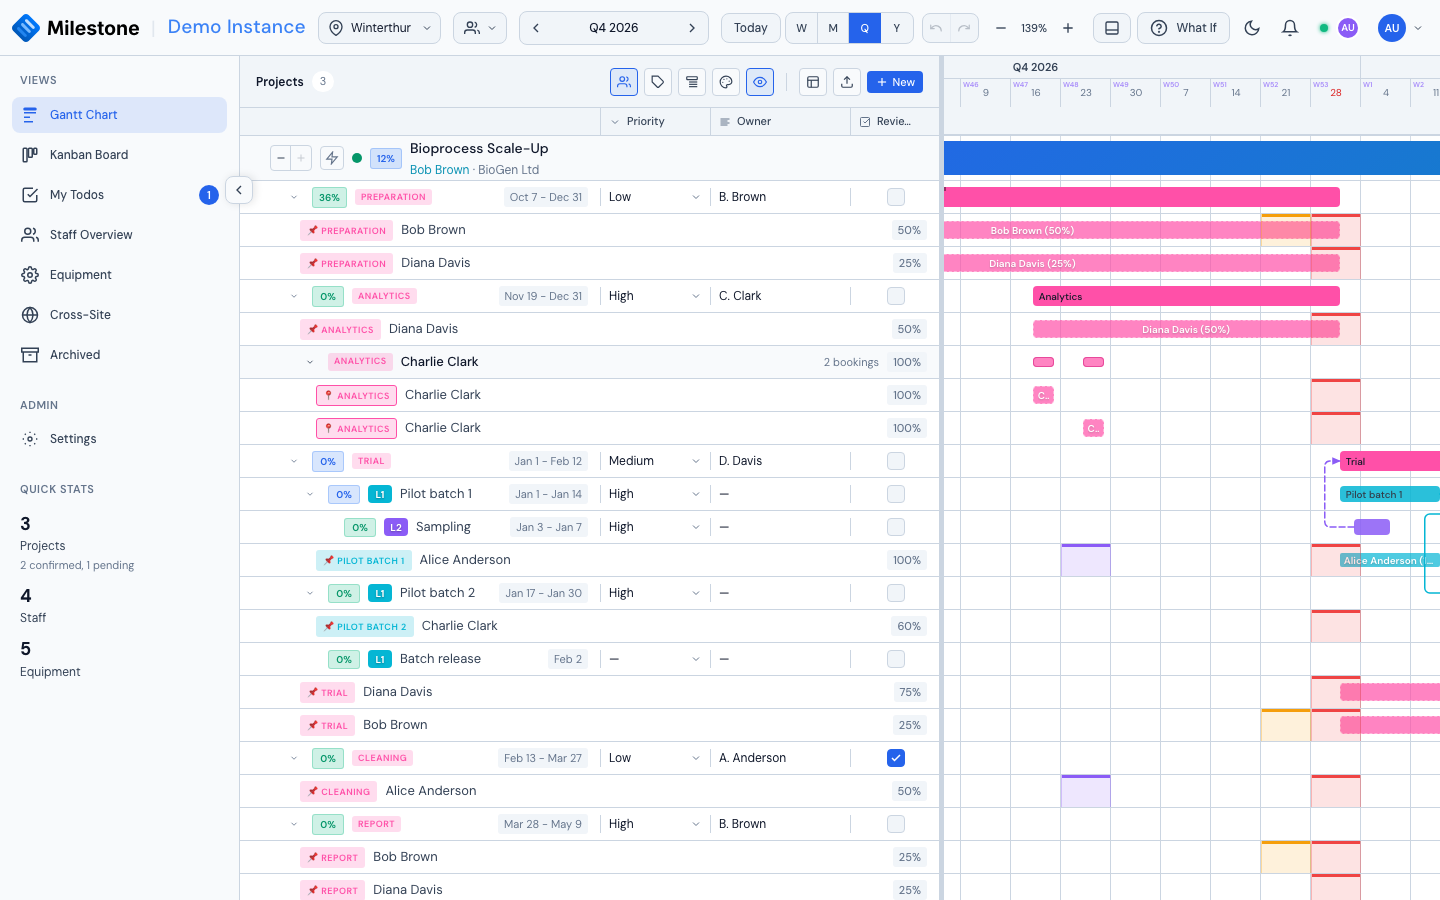
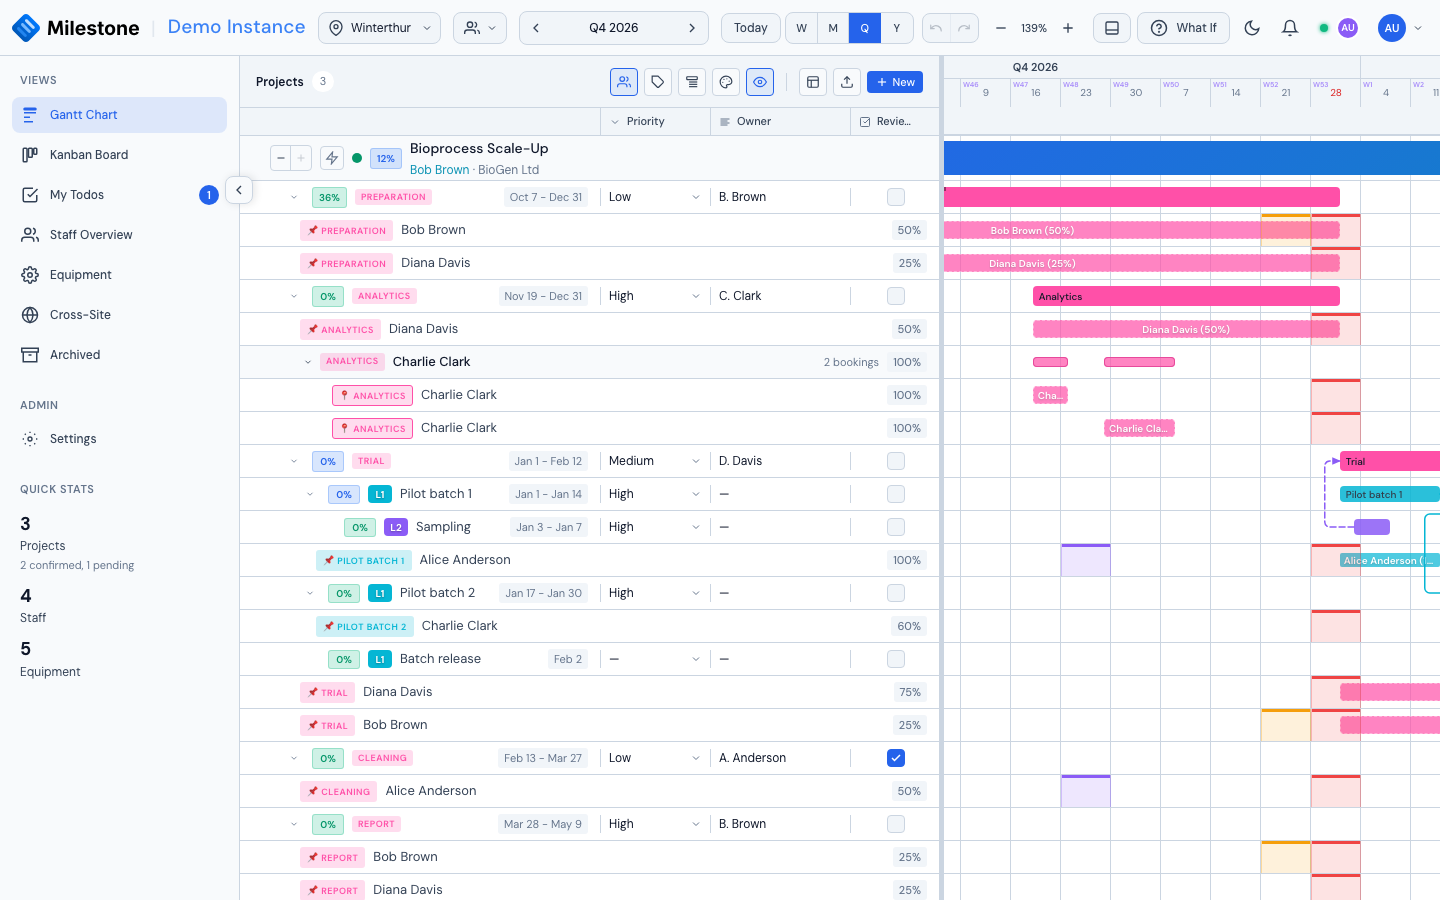
Indent grouped bookings under their overview row
A person's grouped booking rows now sit two levels deeper than the
overview row, and the row's chevron is a little narrower, so their
badges start to the right of the overview row's badge and read as its
children. The screenshot follows.

diff --git a/frontend/src/components/gantt/ProjectPanel/__tests__/PhaseRow.test.tsx b/frontend/src/components/gantt/ProjectPanel/__tests__/PhaseRow.test.tsx
@@ -163,7 +163,7 @@ describe('PhaseRow permissions', () => {
 
 /**
  * A person with two or more bookings on the phase gets a collapsible overview
- * row (StaffGroupRow), their bookings one level deeper; a person with one
+ * row (StaffGroupRow), their bookings two levels deeper; a person with one
  * booking keeps the plain row.
  */
 describe('PhaseRow per-person booking groups', () => {
@@ -180,7 +180,7 @@ describe('PhaseRow per-person booking groups', () => {
     useViewStore.setState({ expandedPhases: new Set([1]), showAssignments: true, collapsedStaffGroups: new Set() });
   });
 
-  it('groups a person with 2+ bookings, expanded, with their rows one level deeper', () => {
+  it('groups a person with 2+ bookings, expanded, with their rows two levels deeper', () => {
     const { container } = renderRow(groupedPhase());
     // the phase row + the staff block the timeline and the row geometry count
     expect(container.children).toHaveLength(1 + staffRowCount(bookings as never, 'phase', 1, new Set()));
@@ -199,9 +199,9 @@ describe('PhaseRow per-person booking groups', () => {
     expect(group.className).not.toMatch(/row/);
     expect([...group.attributes].some((a) => /^data-.*id$/.test(a.name))).toBe(false);
 
-    // Bob's two rows at depth 2 (60 px), then Cleo's single row at depth 1 (44 px)
+    // Bob's two rows at depth 3 (76 px), right of the group badge; Cleo's single row at depth 1 (44 px)
     const rows = bookingRows().map((badge) => badge.parentElement as HTMLElement);
-    expect(rows.map((r) => r.style.paddingLeft)).toEqual(['60px', '60px', '44px']);
+    expect(rows.map((r) => r.style.paddingLeft)).toEqual(['76px', '76px', '44px']);
     expect(screen.getAllByTitle('Bob Brown')).toHaveLength(3); // group name + 2 rows
     // Cleo has no group
     expect(screen.queryByRole('button', { name: /Cleo Chen's bookings/ })).not.toBeInTheDocument();

diff --git a/frontend/src/components/gantt/ProjectPanel/CardStaffRows.tsx b/frontend/src/components/gantt/ProjectPanel/CardStaffRows.tsx
@@ -2,9 +2,10 @@
  * CardStaffRows - the staff bookings of one phase / subphase in the project
  * tree (1.17.0). A person with one booking on the card gets their
  * AssignmentRow as before; a person with two or more gets a StaffGroupRow
- * followed, while the group is expanded, by one AssignmentRow per booking one
- * level deeper. The layout comes from `cardStaffItems`, the same helper the
- * timeline (ProjectTimeline) and `calculateRowPositions` use.
+ * followed, while the group is expanded, by one AssignmentRow per booking two
+ * levels deeper (their badges sit right of the group row's badge). The
+ * layout comes from `cardStaffItems`, the same helper the timeline
+ * (ProjectTimeline) and `calculateRowPositions` use.
  */
 
 import { Fragment, memo, useMemo } from 'react';
@@ -82,7 +83,10 @@ export const CardStaffRows = memo(function CardStaffRows({ level, card, projectI
               phaseType={card.name}
               phaseColor={card.color}
             />
-            {!item.collapsed && item.rows.map((row) => bookingRow(row, depth + 1))}
+            {/* Two levels deeper than the group's edge: the group row's chevron
+                comes before its badge, so one level would put these badges
+                left of the group badge and they would not read as its children. */}
+            {!item.collapsed && item.rows.map((row) => bookingRow(row, depth + 2))}
           </Fragment>
         );
       })}

diff --git a/frontend/src/components/gantt/ProjectPanel/StaffGroupRow.tsx b/frontend/src/components/gantt/ProjectPanel/StaffGroupRow.tsx
@@ -2,9 +2,9 @@
  * StaffGroupRow - the overview row of one person's bookings on one phase /
  * subphase (1.17.0), shown when the person has two or more rows there:
  * chevron, the card badge (as on the booking rows, without the pin), name,
- * "N bookings" and the allocation range. The bookings follow
- * at the next depth while expanded (CardStaffRows); the timeline draws the
- * matching SegmentsBar row.
+ * "N bookings" and the allocation range. The bookings follow two levels
+ * deeper while expanded (CardStaffRows); the timeline draws the matching
+ * SegmentsBar row.
  *
  * Its height (--detail-row-height + 1 px border) equals an assignment row's.
  * Class names deliberately avoid "row" and the element carries no
@@ -46,7 +46,8 @@ export const StaffGroupRow = memo(function StaffGroupRow({
 }: StaffGroupRowProps) {
   // Indented like a booking row of the card (AssignmentRow: depth * 16 + 28),
   // not like a phase row: the chevron takes the first 20 px of that edge and
-  // the card badge follows, so the group reads as one of the card's bookings.
+  // the card badge follows, so the group reads as one of the card's bookings;
+  // its rows (depth + 2) then start 12 px right of the badge.
   const paddingLeft = depth * 16 + 28;
   return (
     <div className={styles.staffGroup} style={{ paddingLeft }}>

diff --git a/frontend/src/components/gantt/ProjectPanel/__tests__/SubphaseRow.test.tsx b/frontend/src/components/gantt/ProjectPanel/__tests__/SubphaseRow.test.tsx
@@ -296,7 +296,7 @@ describe('SubphaseRow per-person booking groups', () => {
     useViewStore.setState({ expandedSubphases: new Set([30]), collapsedStaffGroups: new Set() });
   });
 
-  it('groups the person with two bookings, rows one level deeper, singles unchanged', () => {
+  it('groups the person with two bookings, rows two levels deeper, singles unchanged', () => {
     renderRow(grouped);
     const toggle = screen.getByRole('button', { name: "Collapse Bob Brown's bookings" });
     expect(toggle).toHaveAttribute('aria-expanded', 'true');
@@ -304,7 +304,7 @@ describe('SubphaseRow per-person booking groups', () => {
     expect(toggle.parentElement).toHaveStyle({ paddingLeft: '76px' }); // like a booking row at depth 3
     const badge = within(toggle.parentElement!).getByText('Screening');
     expect(badge.getAttribute('style')).toBe(badges()[0].getAttribute('style'));
-    expect(badges().map((b) => (b.parentElement as HTMLElement).style.paddingLeft)).toEqual(['92px', '92px', '76px']);
+    expect(badges().map((b) => (b.parentElement as HTMLElement).style.paddingLeft)).toEqual(['108px', '108px', '76px']);
     expect(screen.queryByRole('button', { name: /Dana Diaz's bookings/ })).not.toBeInTheDocument();
   });
 

diff --git a/frontend/src/components/gantt/ProjectPanel/StaffGroupRow.module.css b/frontend/src/components/gantt/ProjectPanel/StaffGroupRow.module.css
@@ -13,12 +13,16 @@
   background: var(--bg-secondary);
 }
 
+/* Chevron + its gap take exactly 20 px (16 + 8 - 4), so the card badge
+   starts 20 px after the row's edge and the grouped booking rows below
+   (two levels deeper, AssignmentRow: depth * 16 + 28) start 12 px right of it. */
 .collapseBtn {
   display: flex;
   align-items: center;
   justify-content: center;
-  width: 20px;
+  width: 16px;
   height: 20px;
+  margin-right: -4px;
   padding: 0;
   flex-shrink: 0;
   color: var(--text-secondary);
